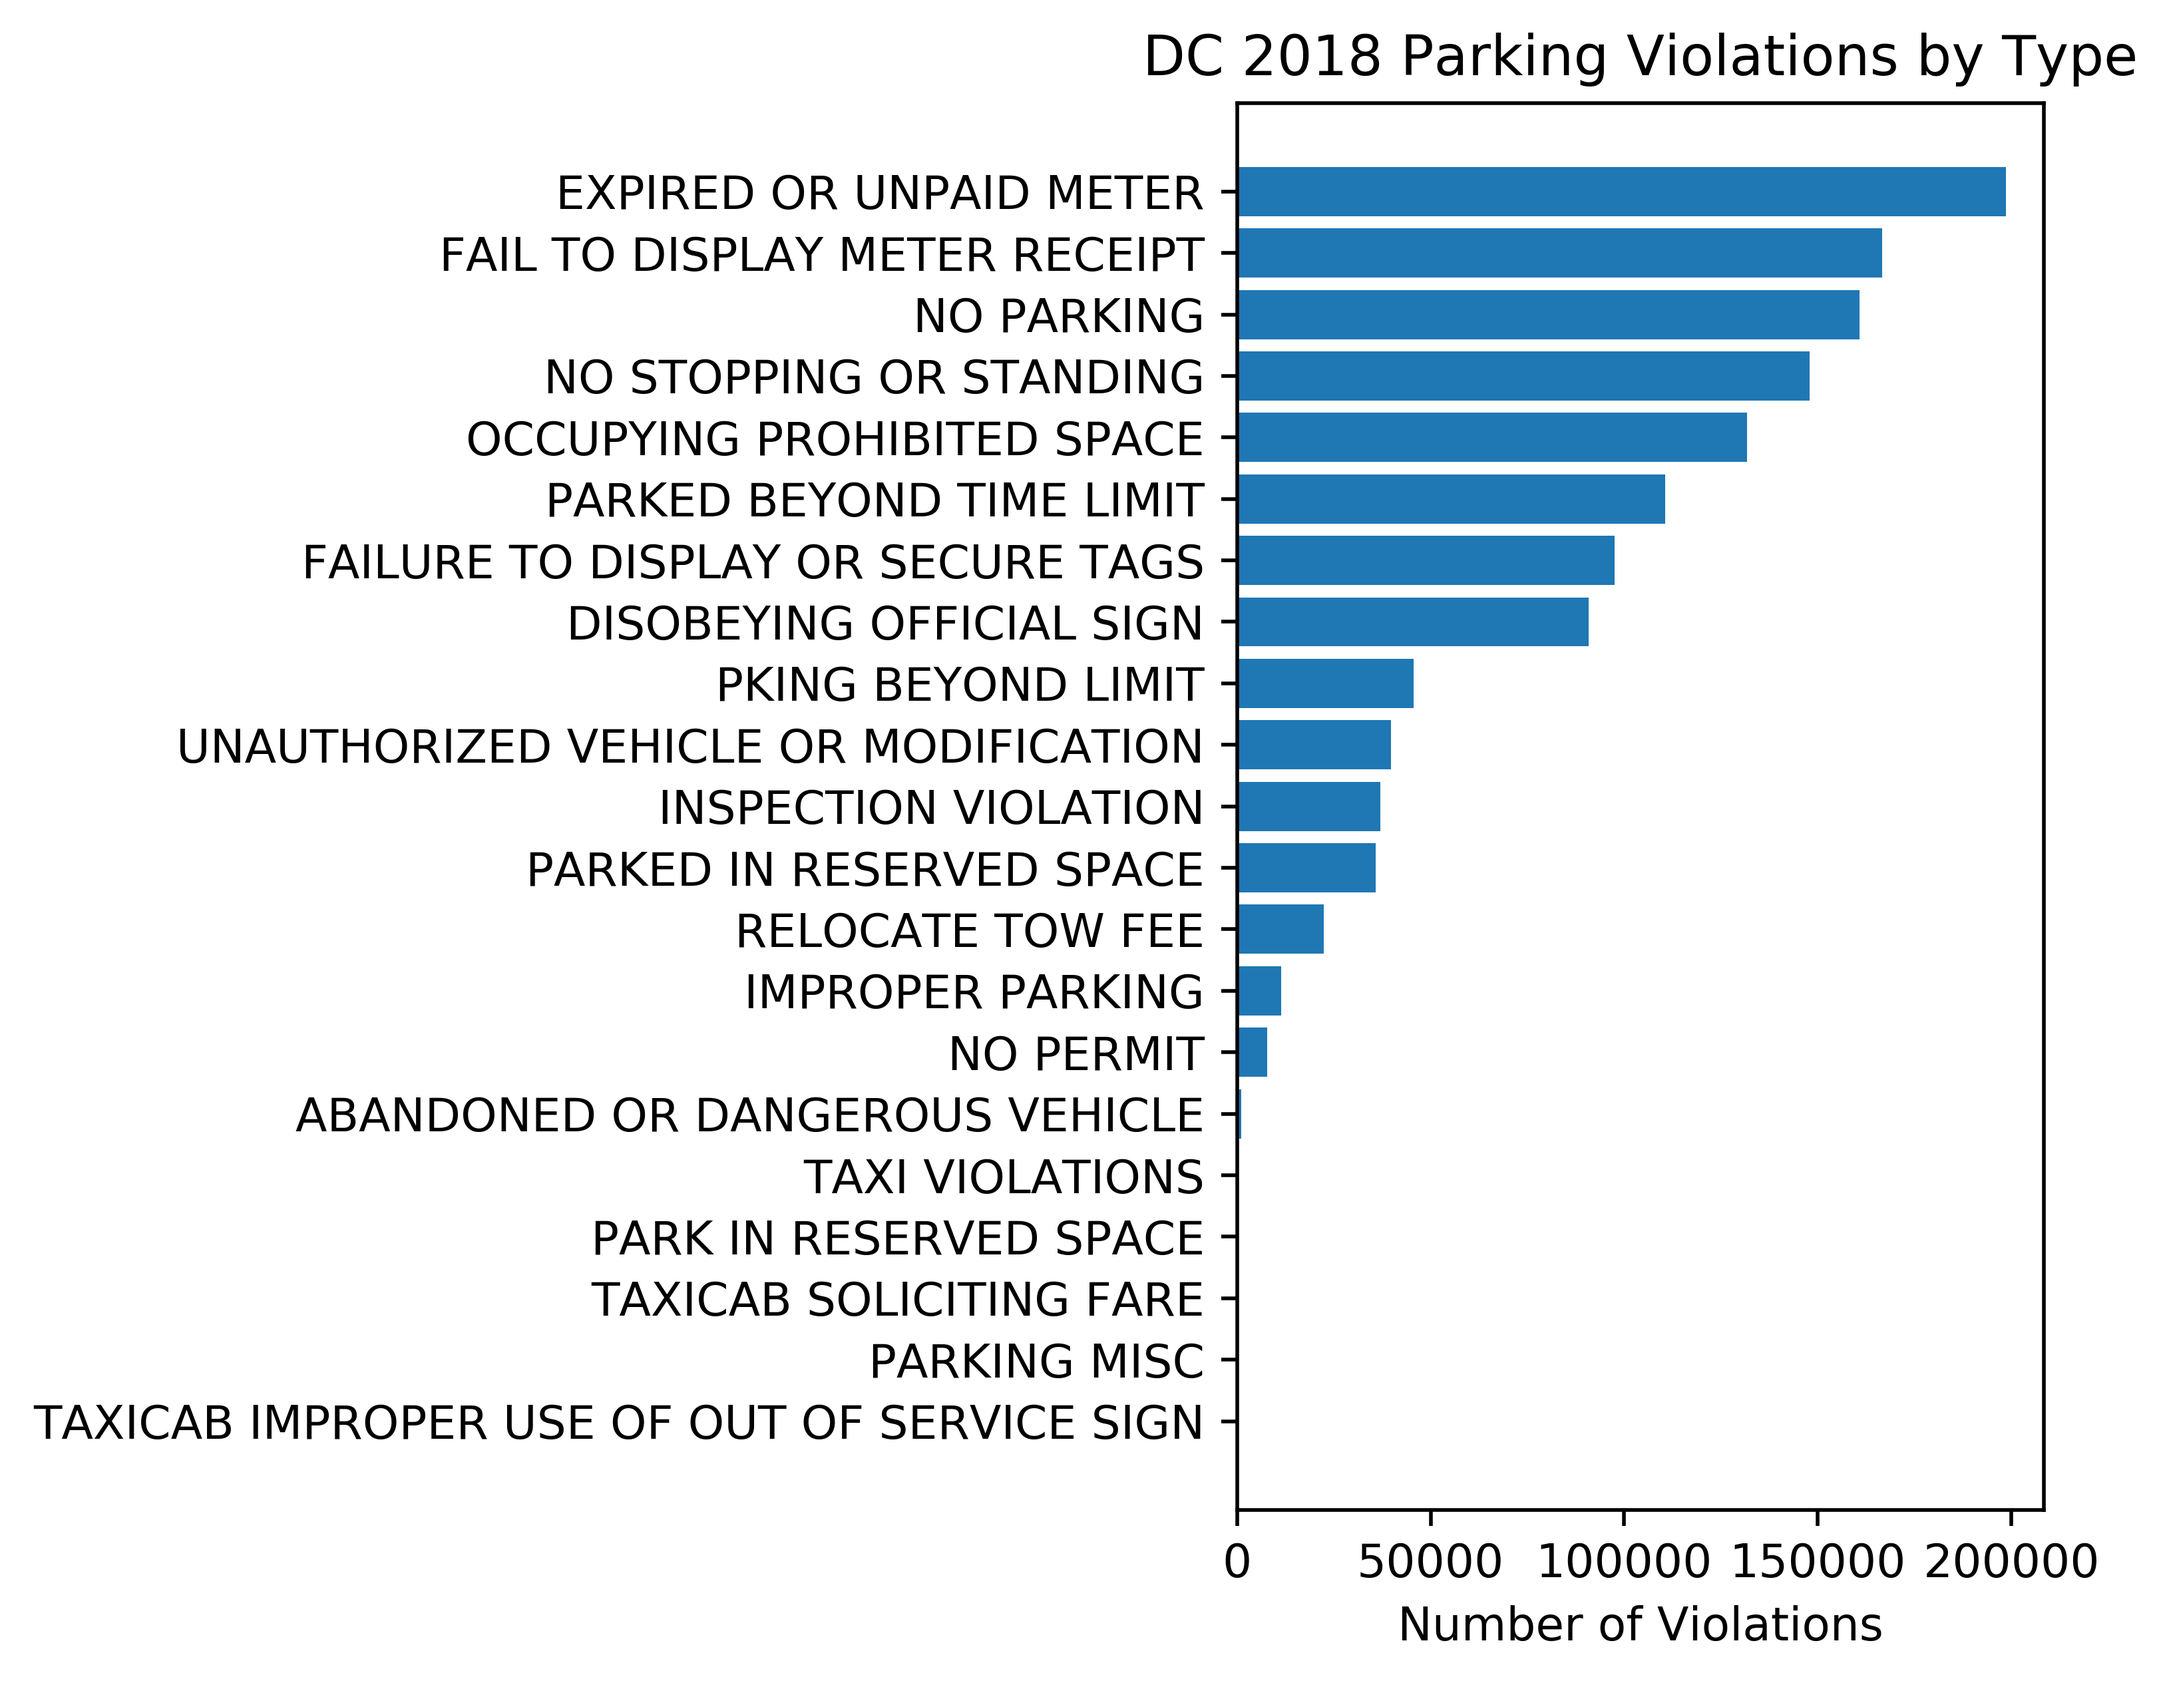
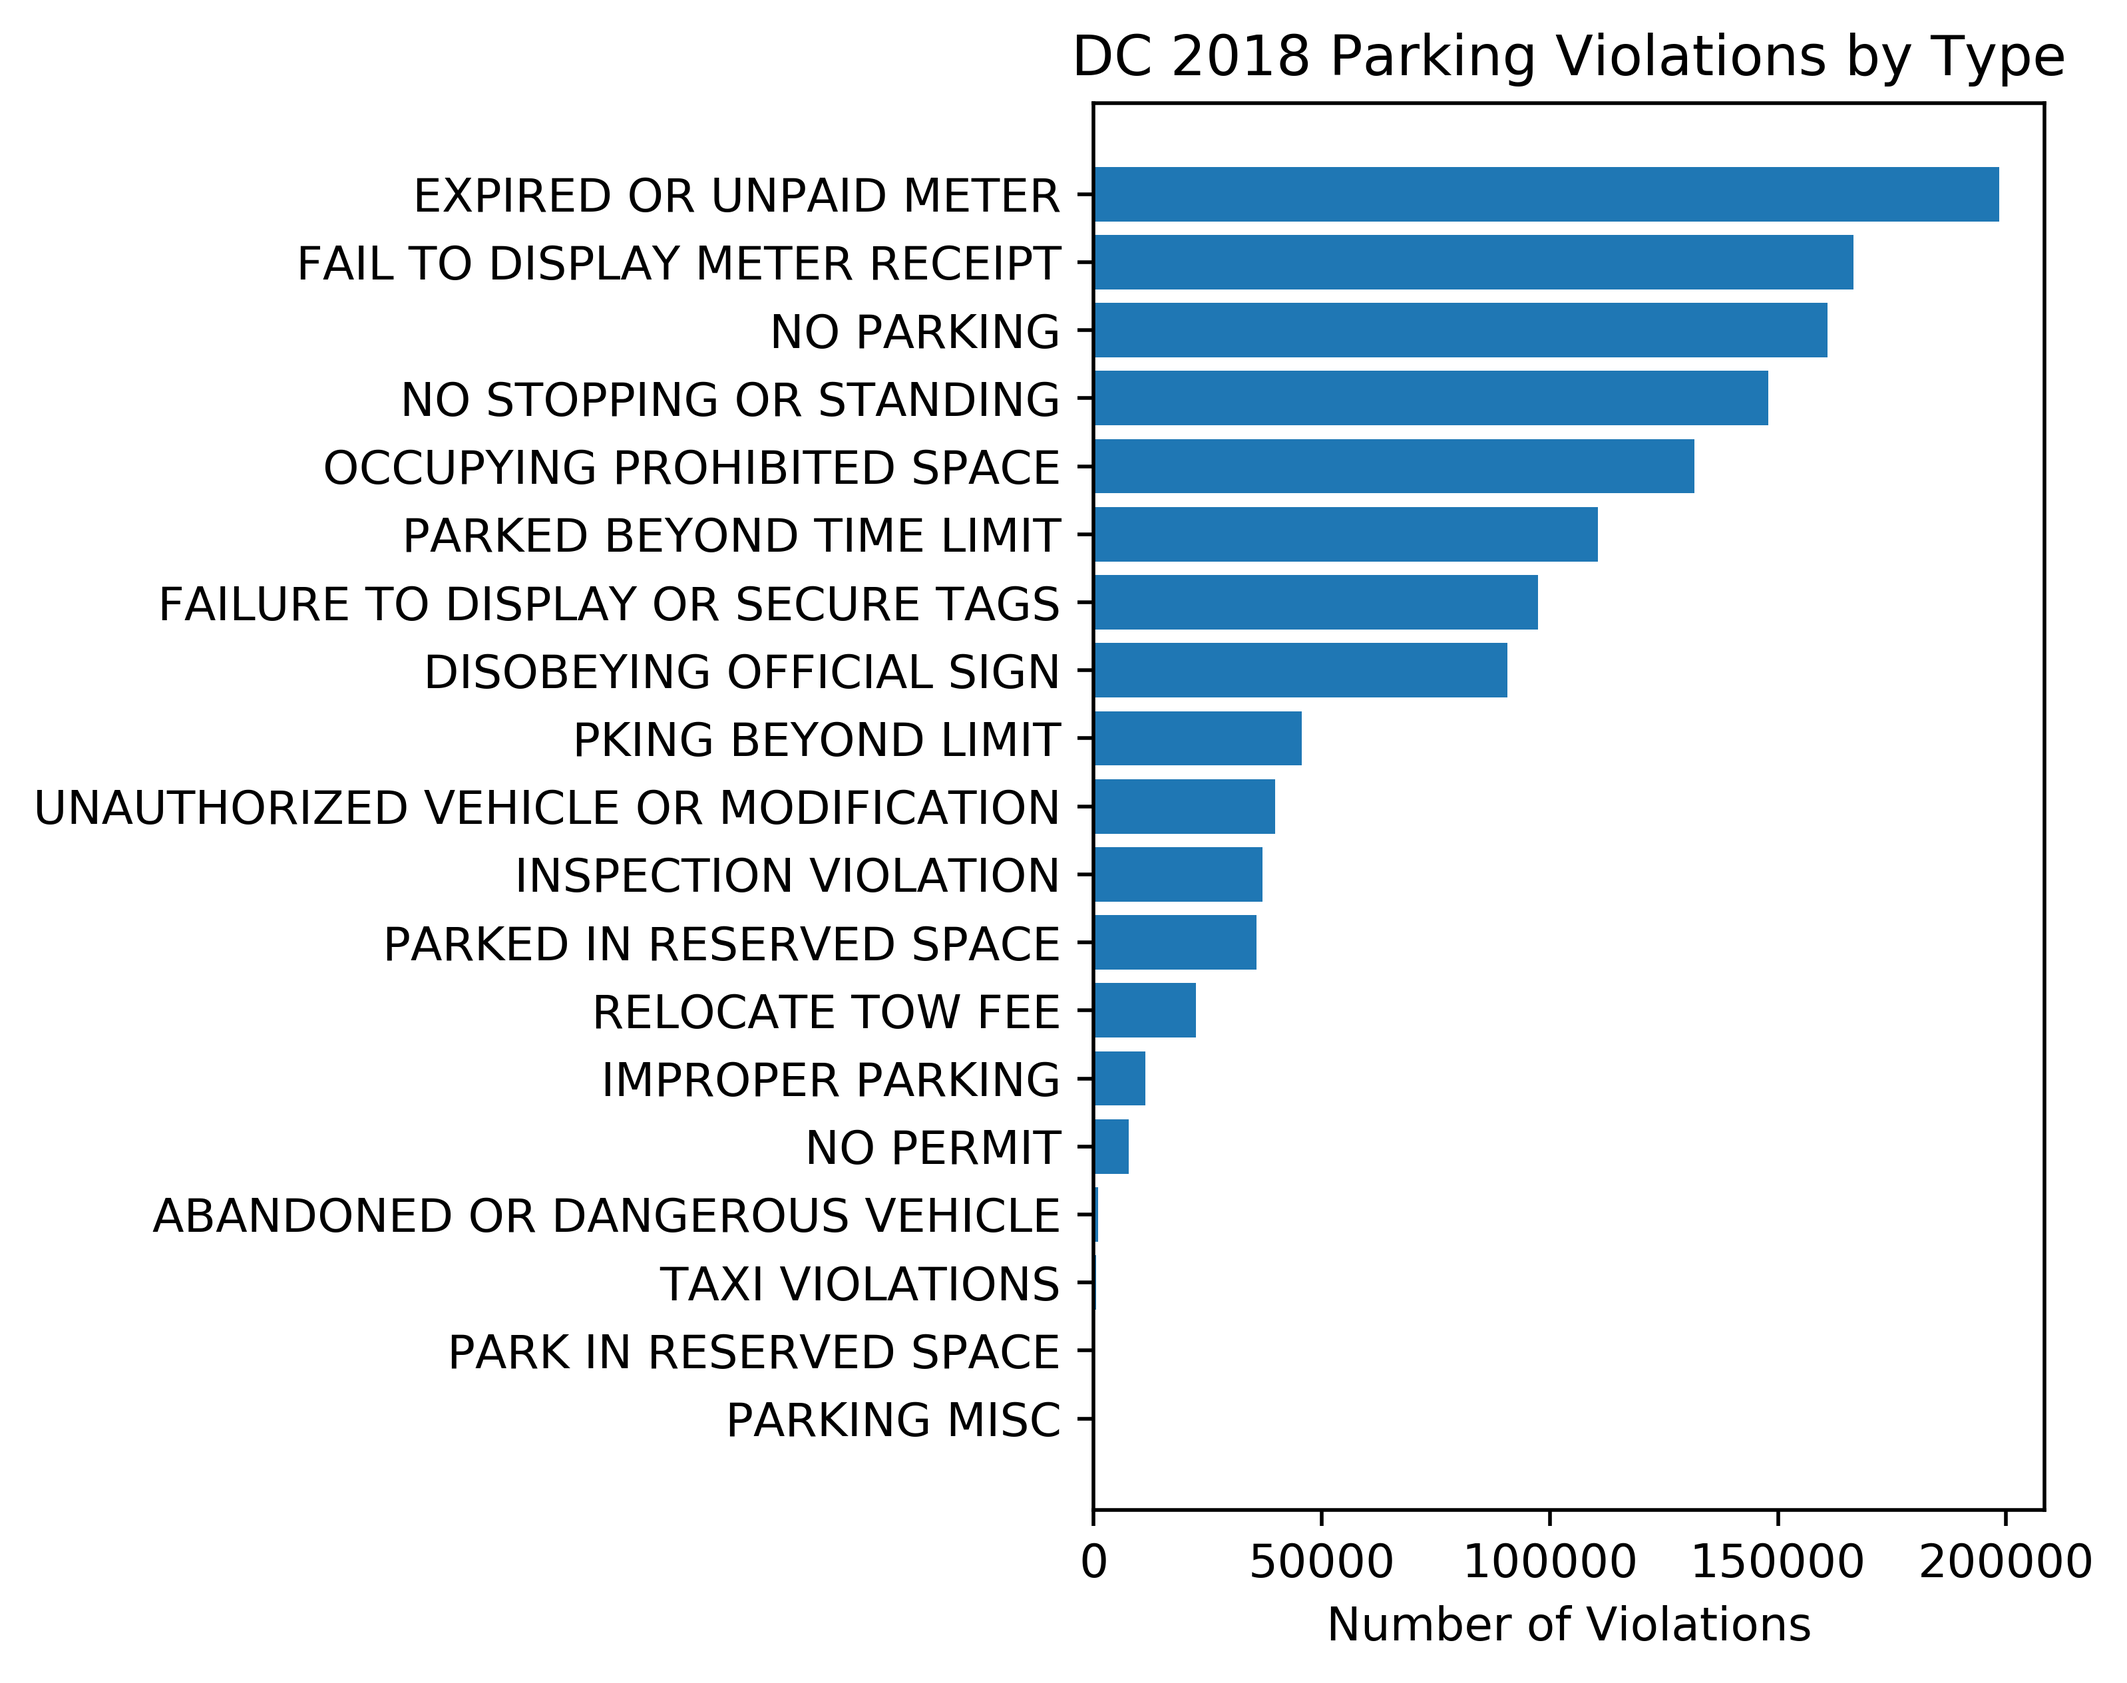
Updated README.MD

diff --git a/README.md b/README.md
@@ -1,2 +1,95 @@
-# TeamMiriamProject1
-Team repository for 1st team project
+# Analysis of Parking Tickets in Washington, DC
+
+Our team was interested in getting an insight to parking tickets issued in the District due to personal experiences with Parking. We used parking violation five years' (2014 to 2018) data from OpenData.DC.gov to visualy represent the trends and information we were able to extract from the data. 
+
+Questions:
+Where do parking violations occur in the District?
+When do parking violations occur in the District?
+What are some general trends concerning parking violations in the District?
+Can we predict how much money the DC government can collect in 2019?
+Is parking in different areas of the District enforced disproportionately?
+
+Analysis: 
+
+We utilized Jupyter Notebook and modules such as pandas, Gmaps, Glob, os, numpy, matplotlib.pyplot, datetime, and dateutil to extract, read, clean, and visualize the data.
+
+Findings: 
+
+1. 2018 Heat Map 
+![Heat map](https://github.com/MimiB2010/TeamMiriamProject1/blob/master/Output/2018_Heat_Map_Zoomed_Out.png)
+
+Heat Map (large view) shows all of the heatmap data for 2018, including pockets in Anacostia, Friendship Heights, and Tenleytown.
+
+![Heat map zoomed](https://github.com/MimiB2010/TeamMiriamProject1/blob/master/Output/2018_Heat_Map_Zoomed_In.png)
+
+More zoomed in heatmap of downtown that shows specific ‘hot spots’ like the H street corridor, M street, Georgetown, Navy Yard, and near major landmarks. Research in budget information from DC Public Works (which encompasses Parking Enforcement) showed a commitment to hiring Full-Time Equivalents (employees) specifically to monitor the 20 busiest streets in DC which may account for fewer violations happening outside of the downtown areas we see here.
+
+2. 2018 Parking Trends by Hour of Day
+
+![tickets by hour of day](https://github.com/MimiB2010/TeamMiriamProject1/blob/master/Output/tickets_by_hour.png)
+
+This graph does not include around 20% of the data which does not have a valid timestamp. In comparing with data from Fiscal Year 2017, there was something that changed in the data collection process which caused a much higher percentage of values without a valid time stamp. We recognized the issue when the chart showed a peak between midnight and 1AM which did not make sense. Because we were missing data points from 2 AM to 10 AM, we chose to represent the data from 10AM until 2 AM.
+
+3. 2018 Parking Trends by Day of Week
+
+![Trends by Day of Week](https://github.com/MimiB2010/TeamMiriamProject1/blob/master/Output/tickets_by_dayofweek_18.png)
+
+The most popular days are Wednesdays and Thursdays. We suspected that this may be in part due to teleworking schedules or holidays on Mondays skewing the numbers down.
+
+4. 2018 Parking Trends by Month
+
+![Violations by Month](https://github.com/MimiB2010/TeamMiriamProject1/blob/master/Output/tickets_by_month_18.png)
+
+We see spikes in August and October, both warmer weather months. August’s spike may be attributed to the school year starting, with schools being back in sessions and college students moving in to the many universities in the district.
+
+4. 2018 Violations by State
+
+![Violations by State](https://github.com/MimiB2010/TeamMiriamProject1/blob/master/Output/TopDMV.png)
+
+State plates that showed DC, MD, & VA had the largest number of violations, which is to be expected.
+Vehicles with Maryland plates had the largest number of violations, with DC second and you Virginia third.
+
+5. Violations by State Plate - Not in DMV
+
+![Violations by State Plate - Not in DMV](https://github.com/MimiB2010/TeamMiriamProject1/blob/master/Output/Top10DMV.png)
+
+Even though DC, MD, & VA had the largest number of violations, we wanted to know which states, outside of the DMV, had the most violations (top 10)
+Pennsylvania plates had the largest number of violations followed by Florida.
+California plates were the last group in the top 10; however, with the distance between CA & DC being so large, we expected the number of violations for CA to be lower. We discussed that the tickets to TX and CA plates could be going to people moving into the area for jobs, knowing that both of those states have robust job markets.
+
+6. Trend by year
+
+![Trend by year](https://github.com/MimiB2010/TeamMiriamProject1/blob/master/Output/Five%20Year%20trend%20by%20Month.png)
+
+The graph showed a general decrease in the number of tickets issued with exception of 2016. We believe that major events such as election-year related events that took place in 2016 contributed to the spike in total tickets issued. 
+
+The downward trend in parking violations is consistent with [an article](https://wtop.com/dc-transit/2019/02/d-c-parking-ticket-revenue-declining/) we found on Washington’s Top news that showed parking ticket and towing revenue has been on decline for about a decade. 
+
+7. Sample month to month comparisons
+
+![Sample month to month comparisons](https://github.com/MimiB2010/TeamMiriamProject1/blob/master/Output/MOM%20Total%20Tcikets.png)
+
+The sample months comparison was consistent with the general trend we saw in the five year graph. There was a spike in ticket issued in 2016 for the months we sampled.
+
+8. 2018 Parking violation by type
+
+![2018 Parking violation by type](https://github.com/MimiB2010/TeamMiriamProject1/blob/master/Output/2018%20Violation_Type.png)
+
+After cleaning and the data and lumping in similar violation descriptions together we were able to find 19 categories. The top 3 violation types for 2018 were 
+      1. Expired or unpaid meter
+      2. Fail to display meter receipt 
+      3. No parking
+
+
+Limitation:
+
+- Lacked budget data to see revenue from parking fines - WTOP had 2 articles, [one](https://wtop.com/dc-transit/2019/02/d-c-parking-ticket-revenue-declining/) of which referenced the data but did not include a source,  and the [other](https://wtop.com/dc/2018/09/aaa-fewer-and-fewer-parking-tickets-are-getting-issued-around-dc/) said the data was accessible through a Freedom Of Information Act (FOIA)  request
+- Unsure of cause of tickets without a recorded time stamp
+- Not able to translate all state abbreviations (“MM”, “XX”, ‘YY”) to a state
+- Could not translate coordinates to zip codes to compare against census data
+
+Further questions
+
+- Fiscal year vs. calendar year
+- Adjudicated tickets
+- Repeat offenders 
